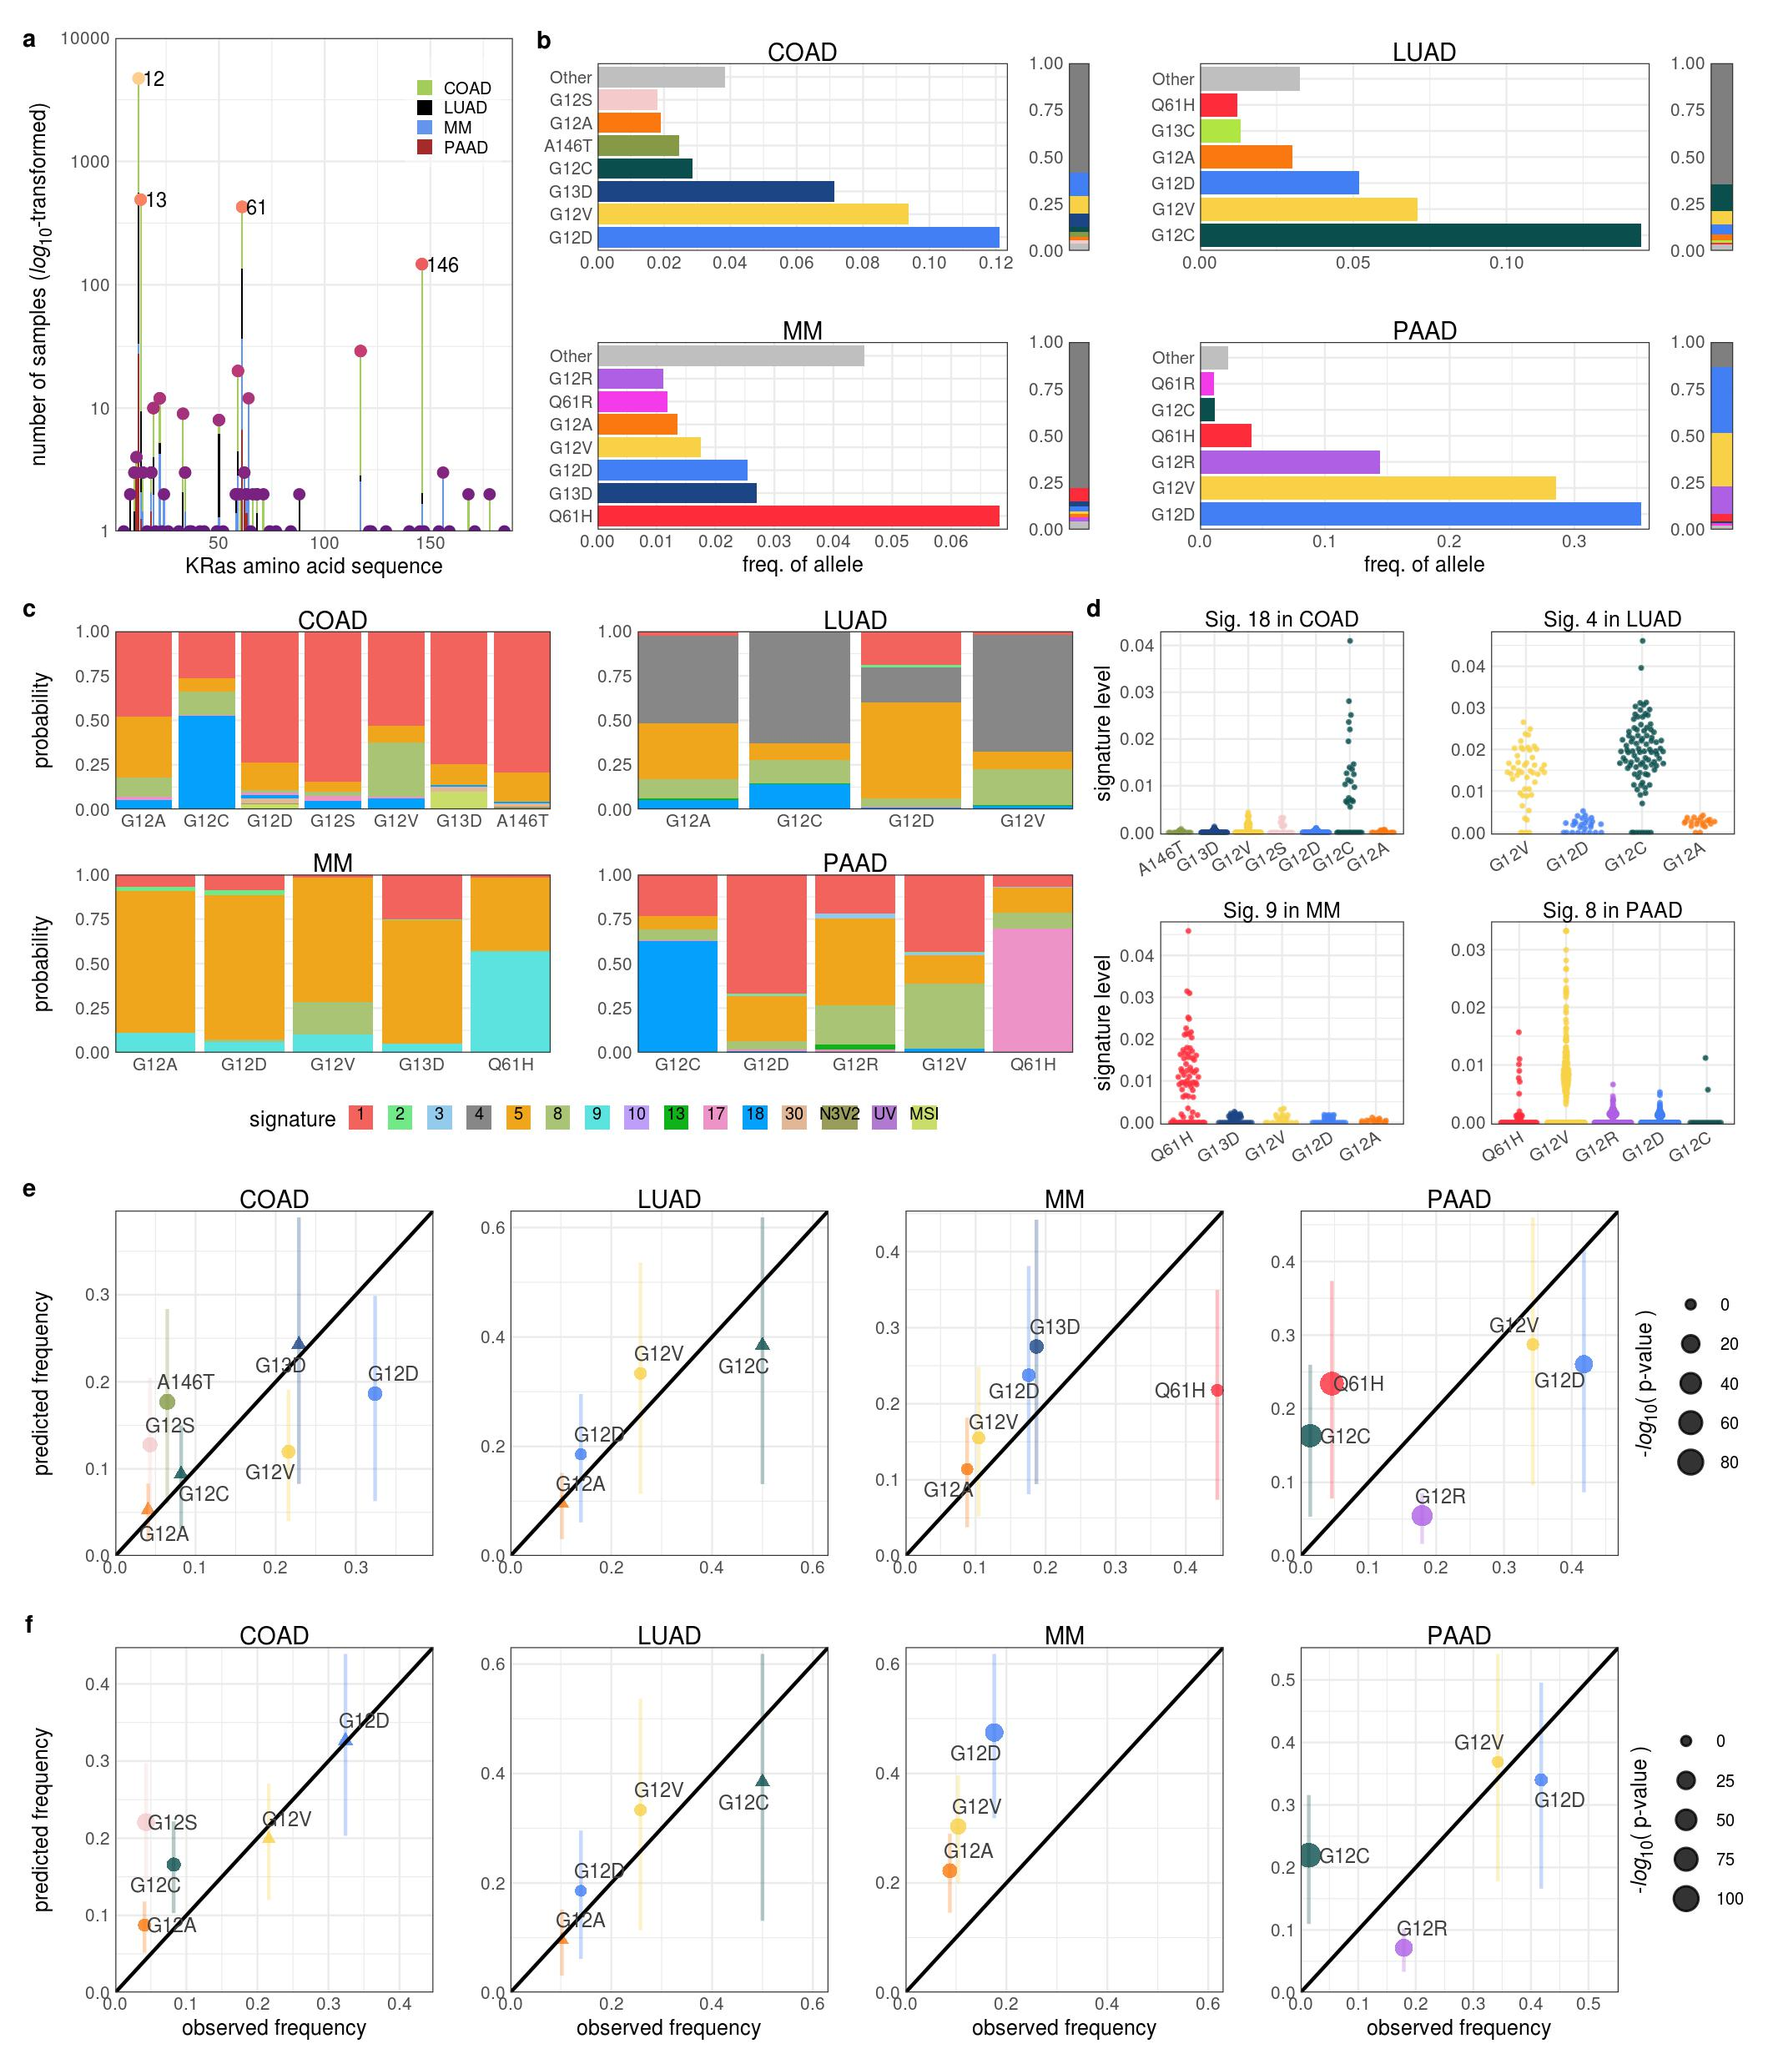
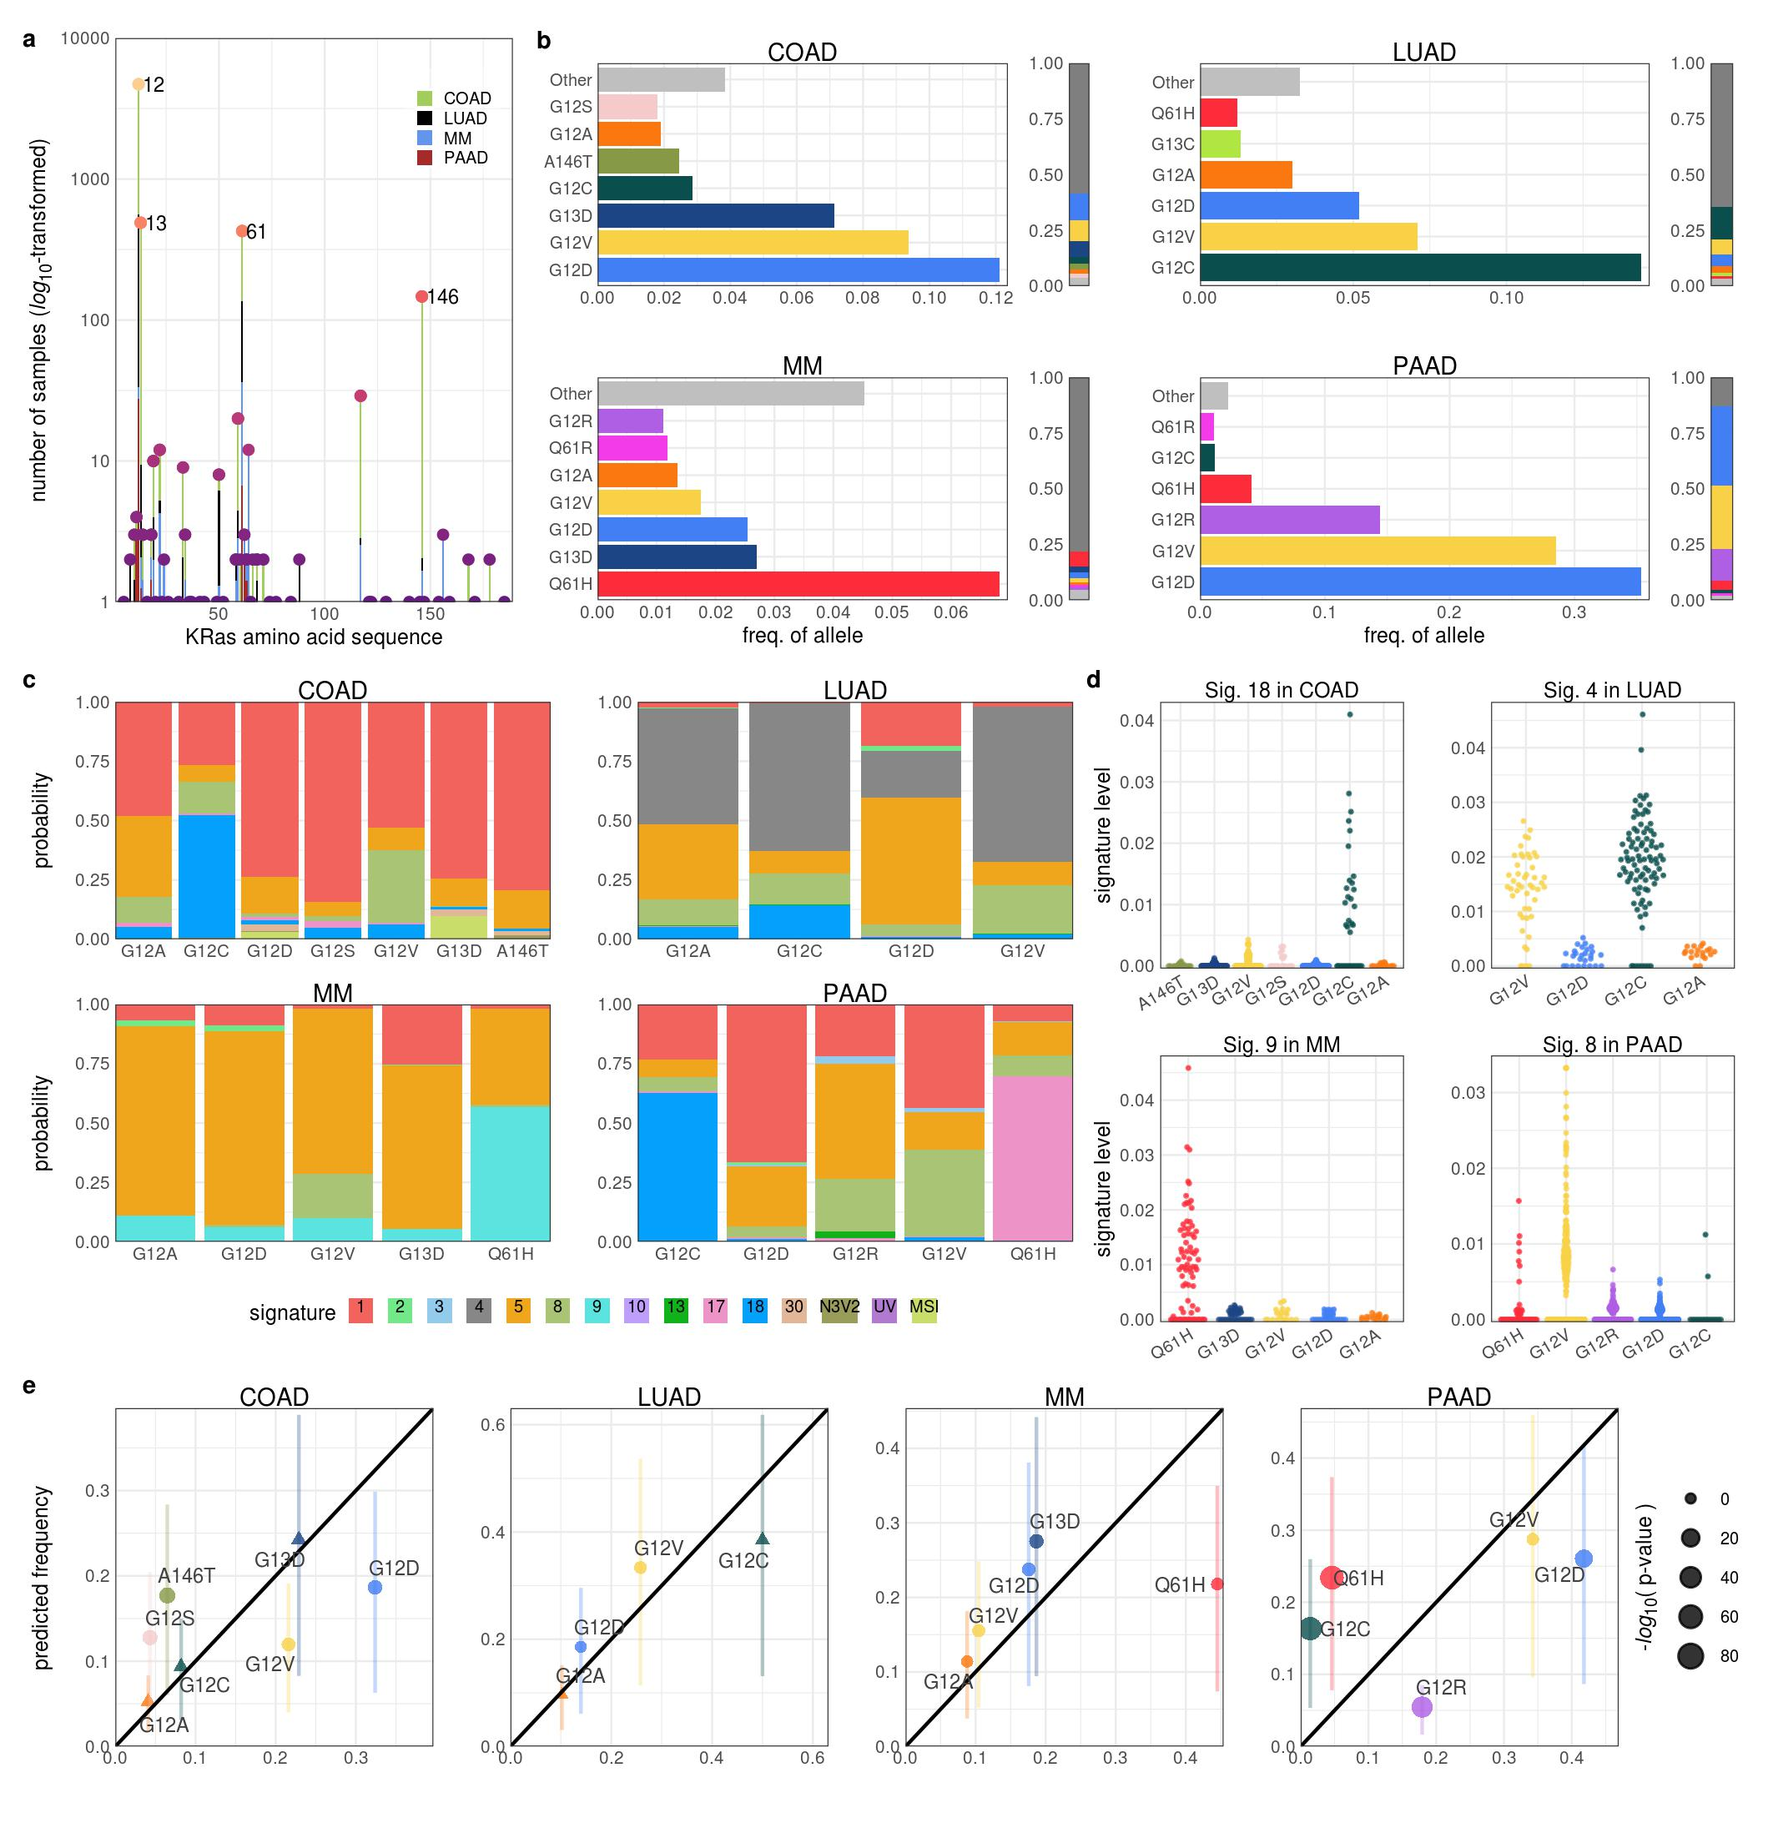
KH edit: remove panel e from Fig 1

diff --git a/comutation-manuscript.tex b/comutation-manuscript.tex
@@ -558,14 +558,14 @@ A competing interests statement is required for all papers accepted by and publi
 
 \begin{figure}[p]
 \centering
-\includegraphics[height=160mm]{figures/Fig_1.jpeg}
+\includegraphics[width=\textwidth]{figures/Fig_1.jpeg}
 \caption{
     \textbf{The contribution of mutational processes to \KRAS{} mutagenesis.}
     \textbf{a.} The number of samples with mutations along the \KRAS{} protein sequence. The most frequently mutated locations are labeled. The color of the bar indicates the abundance per cancer. 
     \textbf{b.} The distribution of \KRAS{} alleles in each cancer. The "Other" group includes the infrequent \KRAS{} alleles of the cancer. The adjacent bar indicates the fraction of samples with each \KRAS{} allele over all samples, including those with WT \KRAS{}.
     \textbf{c.} The average probability of each mutational signature to have caused the \KRAS{} mutation in a sample.
     \textbf{d.} The levels of select mutational signatures in samples with \KRAS{} mutations.
-    \textbf{e, f.} The predicted vs. observed frequency of \KRAS{} alleles for all common alleles of the cancer (\textbf{e}) or only codon 12 alleles (\textbf{f}). $\blacktriangle$ indicate the failure to reject the null hypothesis that the observed and predicted frequencies are the same. Error bars indicate 95\% confidence intervals of the predicted values.
+    \textbf{e.} The predicted vs. observed frequency of \KRAS{} alleles for all common alleles of each cancer. $\blacktriangle$ indicate the failure to reject the null hypothesis that the observed and predicted frequencies are the same. Error bars indicate 95\% confidence intervals of the predicted values.
 }
 \label{fig:mutational-signatures-main}
 \end{figure}
